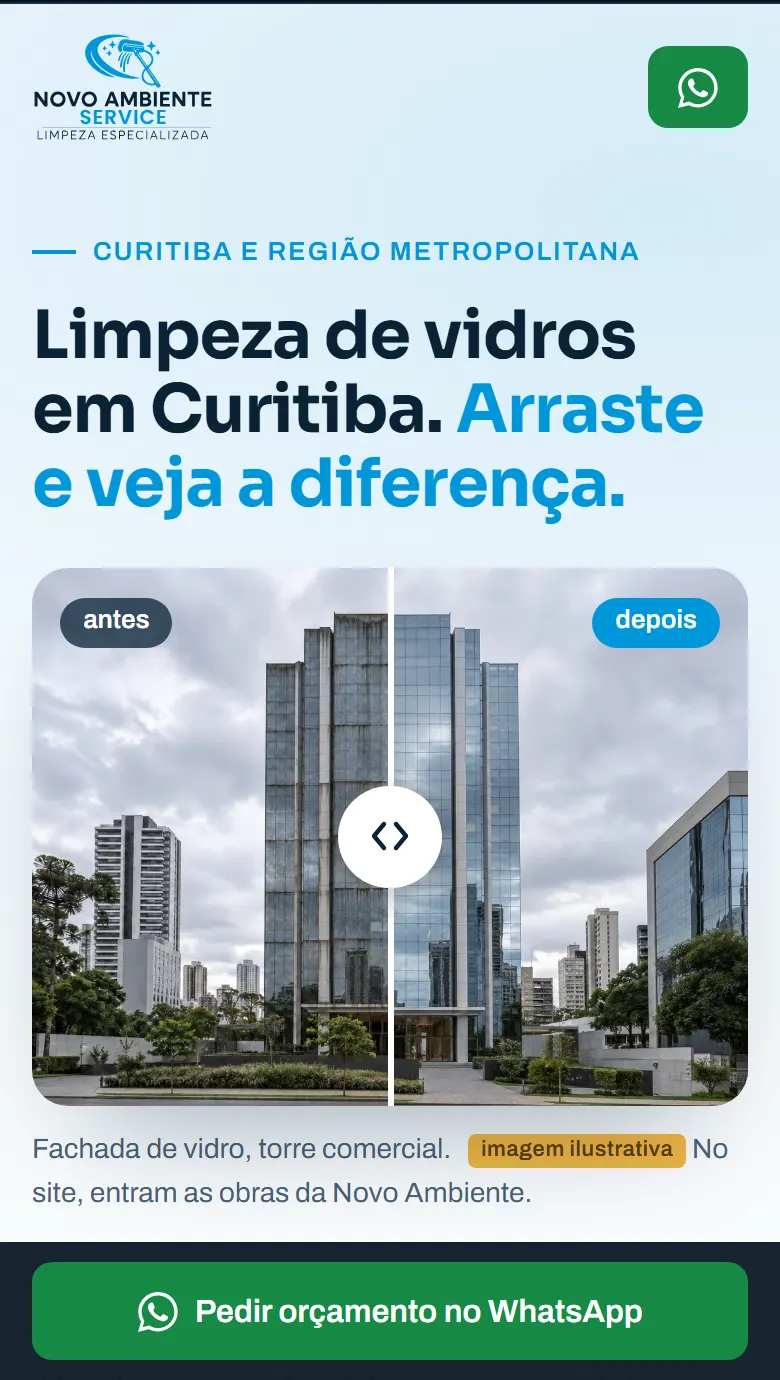
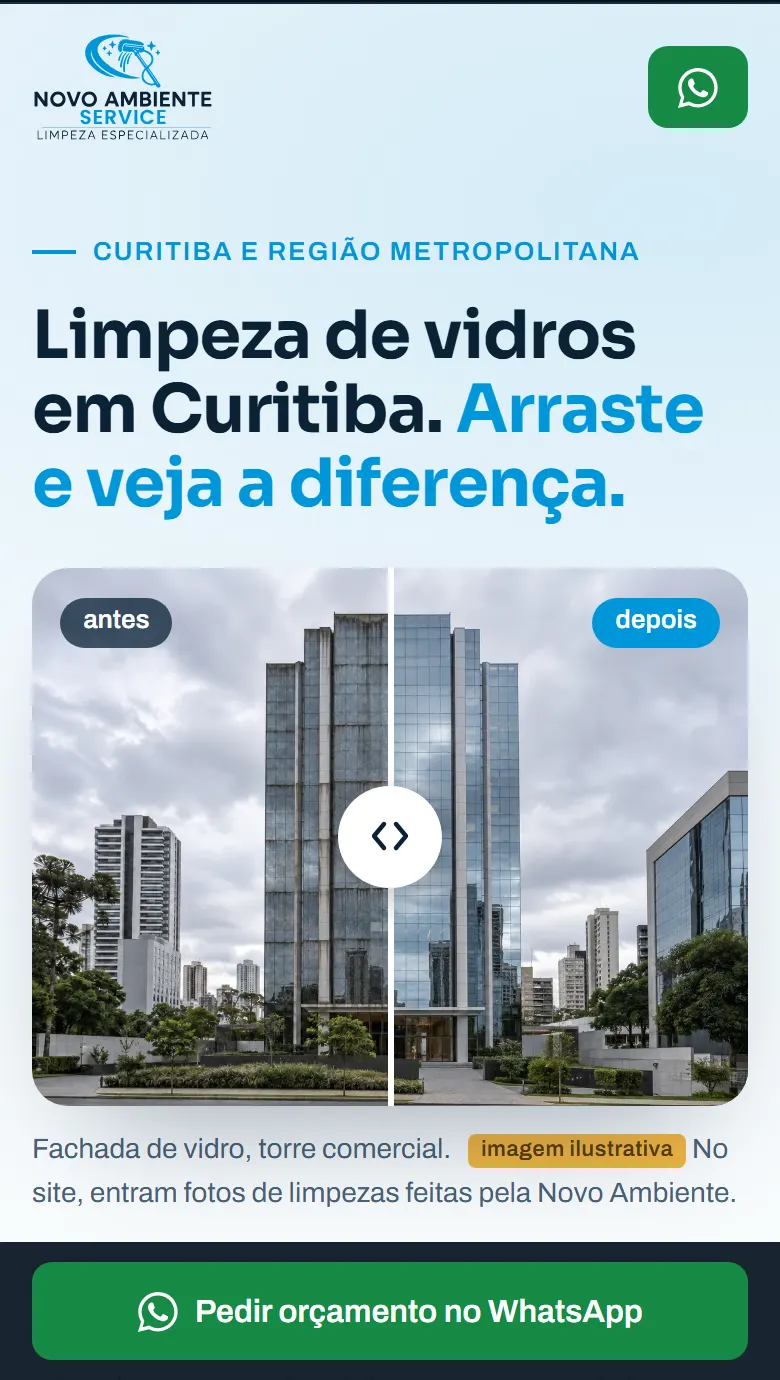
Novo Ambiente previa 2: sem falar de obra (so limpeza) e dores mais especificas de quem contrata (29/10)

Changed region(s): [[0.2462, 0.8413, 0.9231, 0.8725]]

diff --git a/public/novo-ambiente/previa-2/opcao-3.html b/public/novo-ambiente/previa-2/opcao-3.html
@@ -72,24 +72,24 @@
       <article class="porta">
         <h2><span class="ic"><svg viewBox="0 0 24 24" fill="none" stroke="currentColor" stroke-width="1.8" stroke-linecap="round" stroke-linejoin="round" aria-hidden="true"><rect x="5" y="3" width="14" height="18" rx="1"/><path d="M9 7h1.5M13.5 7H15M9 11h1.5M13.5 11H15M9 15h1.5M13.5 15H15M10.5 21v-3h3v3"/></svg></span>Condomínio</h2>
         <dl>
-          <div><dt class="dor">O problema</dt><dd>Morador reclamando do vidro manchado e empresa que some no meio do serviço.</dd></div>
-          <div><dt class="quer">O que você quer</dt><dd>Data marcada, equipe segura no alto e foto do antes e depois pra levar na assembleia.</dd></div>
+          <div><dt class="dor">O problema</dt><dd>Vidro alto da fachada que ninguém do prédio alcança, e se alguém se machucar lá em cima quem responde é o síndico.</dd></div>
+          <div><dt class="quer">O que você quer</dt><dd>Equipe treinada pra trabalhar em altura, data marcada e foto do antes e depois pra mostrar aos moradores.</dd></div>
         </dl>
         <a class="btn btn-wa" href="https://wa.me/5541997799646?text=Ol%C3%A1%21%20Vim%20pelo%20site.%20Sou%20s%C3%ADndico/administradora%20e%20quero%20um%20or%C3%A7amento%20de%20limpeza%20de%20vidros%20pro%20condom%C3%ADnio." target="_blank" rel="noopener"><svg class="ico" viewBox="0 0 24 24" fill="currentColor" aria-hidden="true"><path d="M20.5 3.5A11.8 11.8 0 0 0 12 0C5.5 0 .2 5.3.2 11.8c0 2.1.5 4.1 1.6 5.9L0 24l6.5-1.7a11.8 11.8 0 0 0 5.5 1.4c6.5 0 11.8-5.3 11.8-11.8 0-3.2-1.2-6.1-3.3-8.4zM12 21.7c-1.8 0-3.5-.5-5-1.4l-.4-.2-3.8 1 1-3.7-.2-.4a9.8 9.8 0 1 1 8.4 4.7zm5.4-7.3c-.3-.1-1.7-.9-2-1-.3-.1-.5-.1-.7.1l-.9 1.1c-.2.2-.3.2-.6.1-.3-.1-1.2-.5-2.4-1.5-.9-.8-1.5-1.8-1.6-2.1-.2-.3 0-.5.1-.6l.4-.5.3-.5c.1-.2 0-.4 0-.5l-.9-2.2c-.2-.6-.5-.5-.7-.5h-.6c-.2 0-.5.1-.8.4-.3.3-1 1-1 2.5s1.1 2.9 1.2 3.1c.1.2 2.1 3.2 5.1 4.5.7.3 1.3.5 1.7.6.7.2 1.4.2 1.9.1.6-.1 1.7-.7 2-1.4.2-.7.2-1.3.2-1.4-.1-.1-.3-.2-.6-.3z"/></svg>Orçamento pro condomínio</a>
       </article>
       <article class="porta">
         <h2><span class="ic"><svg viewBox="0 0 24 24" fill="none" stroke="currentColor" stroke-width="1.8" stroke-linecap="round" stroke-linejoin="round" aria-hidden="true"><path d="M3 9 4.5 4h15L21 9"/><path d="M3 9h18v2a3 3 0 0 1-6 0 3 3 0 0 1-6 0 3 3 0 0 1-6 0z"/><path d="M5 13v8h14v-8M10 21v-5h4v5"/></svg></span>Loja ou empresa</h2>
         <dl>
-          <div><dt class="dor">O problema</dt><dd>Vitrine e fachada encardidas passam descuido antes de o cliente entrar.</dd></div>
-          <div><dt class="quer">O que você quer</dt><dd>Vidro limpo no horário combinado, sem atrapalhar o atendimento.</dd></div>
+          <div><dt class="dor">O problema</dt><dd>Vitrine com marca de dedo e mancha de chuva toda semana, e funcionário parando o atendimento pra passar pano.</dd></div>
+          <div><dt class="quer">O que você quer</dt><dd>Vitrine sempre limpa, com dia e horário combinados, sem ninguém da loja perder tempo com isso.</dd></div>
         </dl>
         <a class="btn btn-wa" href="https://wa.me/5541997799646?text=Ol%C3%A1%21%20Vim%20pelo%20site.%20Tenho%20uma%20empresa%20e%20quero%20um%20or%C3%A7amento%20de%20limpeza%20de%20vidros." target="_blank" rel="noopener"><svg class="ico" viewBox="0 0 24 24" fill="currentColor" aria-hidden="true"><path d="M20.5 3.5A11.8 11.8 0 0 0 12 0C5.5 0 .2 5.3.2 11.8c0 2.1.5 4.1 1.6 5.9L0 24l6.5-1.7a11.8 11.8 0 0 0 5.5 1.4c6.5 0 11.8-5.3 11.8-11.8 0-3.2-1.2-6.1-3.3-8.4zM12 21.7c-1.8 0-3.5-.5-5-1.4l-.4-.2-3.8 1 1-3.7-.2-.4a9.8 9.8 0 1 1 8.4 4.7zm5.4-7.3c-.3-.1-1.7-.9-2-1-.3-.1-.5-.1-.7.1l-.9 1.1c-.2.2-.3.2-.6.1-.3-.1-1.2-.5-2.4-1.5-.9-.8-1.5-1.8-1.6-2.1-.2-.3 0-.5.1-.6l.4-.5.3-.5c.1-.2 0-.4 0-.5l-.9-2.2c-.2-.6-.5-.5-.7-.5h-.6c-.2 0-.5.1-.8.4-.3.3-1 1-1 2.5s1.1 2.9 1.2 3.1c.1.2 2.1 3.2 5.1 4.5.7.3 1.3.5 1.7.6.7.2 1.4.2 1.9.1.6-.1 1.7-.7 2-1.4.2-.7.2-1.3.2-1.4-.1-.1-.3-.2-.6-.3z"/></svg>Orçamento pra empresa</a>
       </article>
       <article class="porta">
         <h2><span class="ic"><svg viewBox="0 0 24 24" fill="none" stroke="currentColor" stroke-width="1.8" stroke-linecap="round" stroke-linejoin="round" aria-hidden="true"><path d="M3 11 12 4l9 7"/><path d="M5 10v11h14V10M10 21v-6h4v6"/></svg></span>Casa</h2>
         <dl>
-          <div><dt class="dor">O problema</dt><dd>Janela alta e placa solar que você não alcança, e o risco de subir na escada.</dd></div>
-          <div><dt class="quer">O que você quer</dt><dd>Vidro transparente e placa limpa, sem ninguém da família se arriscar.</dd></div>
+          <div><dt class="dor">O problema</dt><dd>Janela alta e vidro de sacada que você não alcança, e a placa solar suja gerando menos energia do que deveria.</dd></div>
+          <div><dt class="quer">O que você quer</dt><dd>Vidro transparente e placa limpa, sem ninguém da família subir em escada.</dd></div>
         </dl>
         <a class="btn btn-wa" href="https://wa.me/5541997799646?text=Ol%C3%A1%21%20Vim%20pelo%20site%20e%20quero%20um%20or%C3%A7amento%20de%20limpeza%20de%20vidros%20pra%20minha%20casa." target="_blank" rel="noopener"><svg class="ico" viewBox="0 0 24 24" fill="currentColor" aria-hidden="true"><path d="M20.5 3.5A11.8 11.8 0 0 0 12 0C5.5 0 .2 5.3.2 11.8c0 2.1.5 4.1 1.6 5.9L0 24l6.5-1.7a11.8 11.8 0 0 0 5.5 1.4c6.5 0 11.8-5.3 11.8-11.8 0-3.2-1.2-6.1-3.3-8.4zM12 21.7c-1.8 0-3.5-.5-5-1.4l-.4-.2-3.8 1 1-3.7-.2-.4a9.8 9.8 0 1 1 8.4 4.7zm5.4-7.3c-.3-.1-1.7-.9-2-1-.3-.1-.5-.1-.7.1l-.9 1.1c-.2.2-.3.2-.6.1-.3-.1-1.2-.5-2.4-1.5-.9-.8-1.5-1.8-1.6-2.1-.2-.3 0-.5.1-.6l.4-.5.3-.5c.1-.2 0-.4 0-.5l-.9-2.2c-.2-.6-.5-.5-.7-.5h-.6c-.2 0-.5.1-.8.4-.3.3-1 1-1 2.5s1.1 2.9 1.2 3.1c.1.2 2.1 3.2 5.1 4.5.7.3 1.3.5 1.7.6.7.2 1.4.2 1.9.1.6-.1 1.7-.7 2-1.4.2-.7.2-1.3.2-1.4-.1-.1-.3-.2-.6-.3z"/></svg>Orçamento pra casa</a>
       </article>

diff --git a/public/novo-ambiente/previa-2/index.html b/public/novo-ambiente/previa-2/index.html
@@ -85,7 +85,7 @@
         <dl>
           <div><dt>Como funciona</dt><dd>A primeira coisa da página é a foto do vidro sujo e limpo, que a pessoa arrasta com o dedo. Embaixo, o botão do WhatsApp e a opção de mandar uma foto do vidro.</dd></div>
           <div><dt>Por que funciona</dt><dd>Síndico e gerente de loja costumam pedir orçamento pra mais de uma empresa. A foto responde "vai ficar bom?" antes de a pergunta ser feita. E receber a foto do vidro adianta o orçamento pros dois lados.</dd></div>
-          <div><dt>O que depende de vocês</dt><dd>Fotos de antes e depois de obras de vocês, no mesmo ângulo. Até chegarem, usamos imagem ilustrativa, marcada como tal.</dd></div>
+          <div><dt>O que depende de vocês</dt><dd>Fotos de antes e depois de limpezas que vocês já fizeram, no mesmo ângulo. Até chegarem, usamos imagem ilustrativa, marcada como tal.</dd></div>
         </dl>
         <a class="btn btn-azul abrir" href="opcao-2.html">Abrir a opção 2</a>
       </div>
@@ -99,7 +99,7 @@
         <p class="pra">Pra falar com cada cliente na dor dele.</p>
         <dl>
           <div><dt>Como funciona</dt><dd>Três portas no topo: condomínio, empresa e casa. Cada uma mostra o problema e o que a pessoa quer, e o botão abre o WhatsApp dizendo quem está falando.</dd></div>
-          <div><dt>Por que funciona</dt><dd>O síndico quer prazo e segurança, a loja quer não atrapalhar o atendimento, a casa quer não correr risco. Quando a página fala do problema certo, a pessoa se reconhece e chama. E a mensagem já chega dizendo se é condomínio, empresa ou casa.</dd></div>
+          <div><dt>Por que funciona</dt><dd>O síndico responde por quem sobe no prédio, a loja não quer funcionário parando o atendimento pra limpar vitrine, a casa não quer ninguém subindo em escada. Quando a página fala do problema certo, a pessoa se reconhece e chama. E a mensagem já chega dizendo se é condomínio, empresa ou casa.</dd></div>
           <div><dt>O que depende de vocês</dt><dd>Uma foto da equipe de vocês trabalhando, no lugar da ilustrativa.</dd></div>
         </dl>
         <a class="btn btn-azul abrir" href="opcao-3.html">Abrir a opção 3</a>

diff --git a/public/novo-ambiente/previa-2/opcao-2.html b/public/novo-ambiente/previa-2/opcao-2.html
@@ -68,7 +68,7 @@
         <h1>Limpeza de vidros em Curitiba. <em>Arraste e veja a diferença.</em></h1>
       </div>
       <div class="resto">
-        <p class="lede">Vidro com marca de chuva, poeira de obra e mancha de calcário volta a ficar transparente. Atendemos condomínios, empresas, lojas e casas.</p>
+        <p class="lede">Vidro com marca de chuva, poeira, gordura e marca de dedo volta a ficar transparente. Atendemos condomínios, empresas, lojas e casas.</p>
         <div class="acoes" data-esconde-barra>
           <a class="btn btn-wa" href="https://wa.me/5541997799646?text=Ol%C3%A1%21%20Vim%20pelo%20site%20e%20quero%20um%20or%C3%A7amento%20de%20limpeza%20de%20vidros." target="_blank" rel="noopener"><svg class="ico" viewBox="0 0 24 24" fill="currentColor" aria-hidden="true"><path d="M20.5 3.5A11.8 11.8 0 0 0 12 0C5.5 0 .2 5.3.2 11.8c0 2.1.5 4.1 1.6 5.9L0 24l6.5-1.7a11.8 11.8 0 0 0 5.5 1.4c6.5 0 11.8-5.3 11.8-11.8 0-3.2-1.2-6.1-3.3-8.4zM12 21.7c-1.8 0-3.5-.5-5-1.4l-.4-.2-3.8 1 1-3.7-.2-.4a9.8 9.8 0 1 1 8.4 4.7zm5.4-7.3c-.3-.1-1.7-.9-2-1-.3-.1-.5-.1-.7.1l-.9 1.1c-.2.2-.3.2-.6.1-.3-.1-1.2-.5-2.4-1.5-.9-.8-1.5-1.8-1.6-2.1-.2-.3 0-.5.1-.6l.4-.5.3-.5c.1-.2 0-.4 0-.5l-.9-2.2c-.2-.6-.5-.5-.7-.5h-.6c-.2 0-.5.1-.8.4-.3.3-1 1-1 2.5s1.1 2.9 1.2 3.1c.1.2 2.1 3.2 5.1 4.5.7.3 1.3.5 1.7.6.7.2 1.4.2 1.9.1.6-.1 1.7-.7 2-1.4.2-.7.2-1.3.2-1.4-.1-.1-.3-.2-.6-.3z"/></svg>Pedir orçamento no WhatsApp</a>
         </div>
@@ -90,7 +90,7 @@
           <span class="rot d">depois</span>
           <input type="range" min="0" max="100" value="50" aria-label="Comparar antes e depois da limpeza do vidro">
         </div>
-        <figcaption>Fachada de vidro, torre comercial. <span class="confirmar">imagem ilustrativa</span> No site, entram as obras da Novo Ambiente.</figcaption>
+        <figcaption>Fachada de vidro, torre comercial. <span class="confirmar">imagem ilustrativa</span> No site, entram fotos de limpezas feitas pela Novo Ambiente.</figcaption>
       </figure>
     </div>
   </div>
